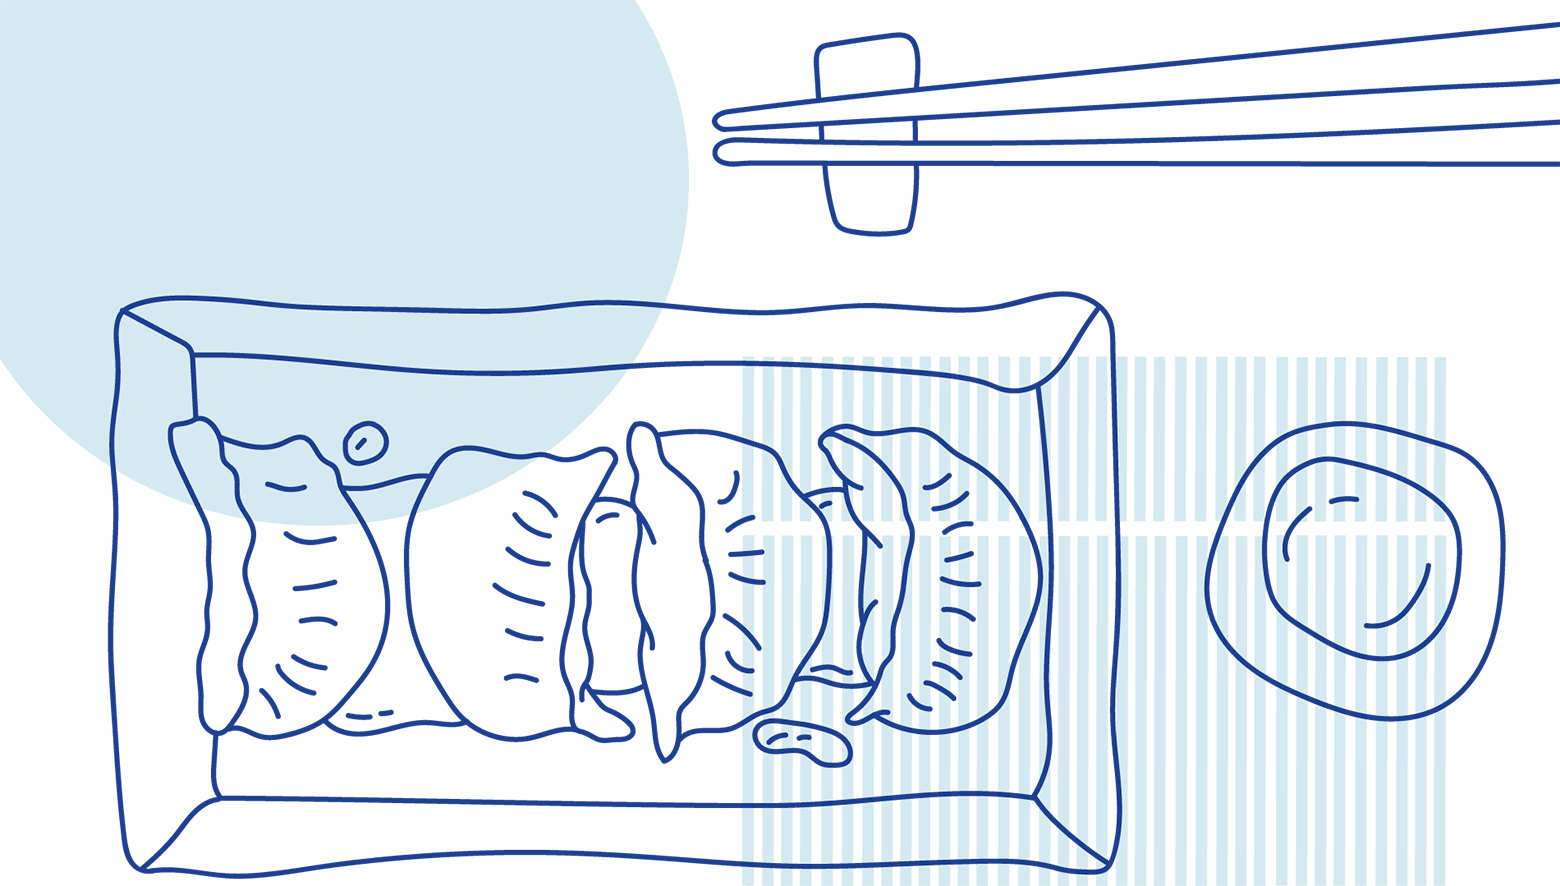
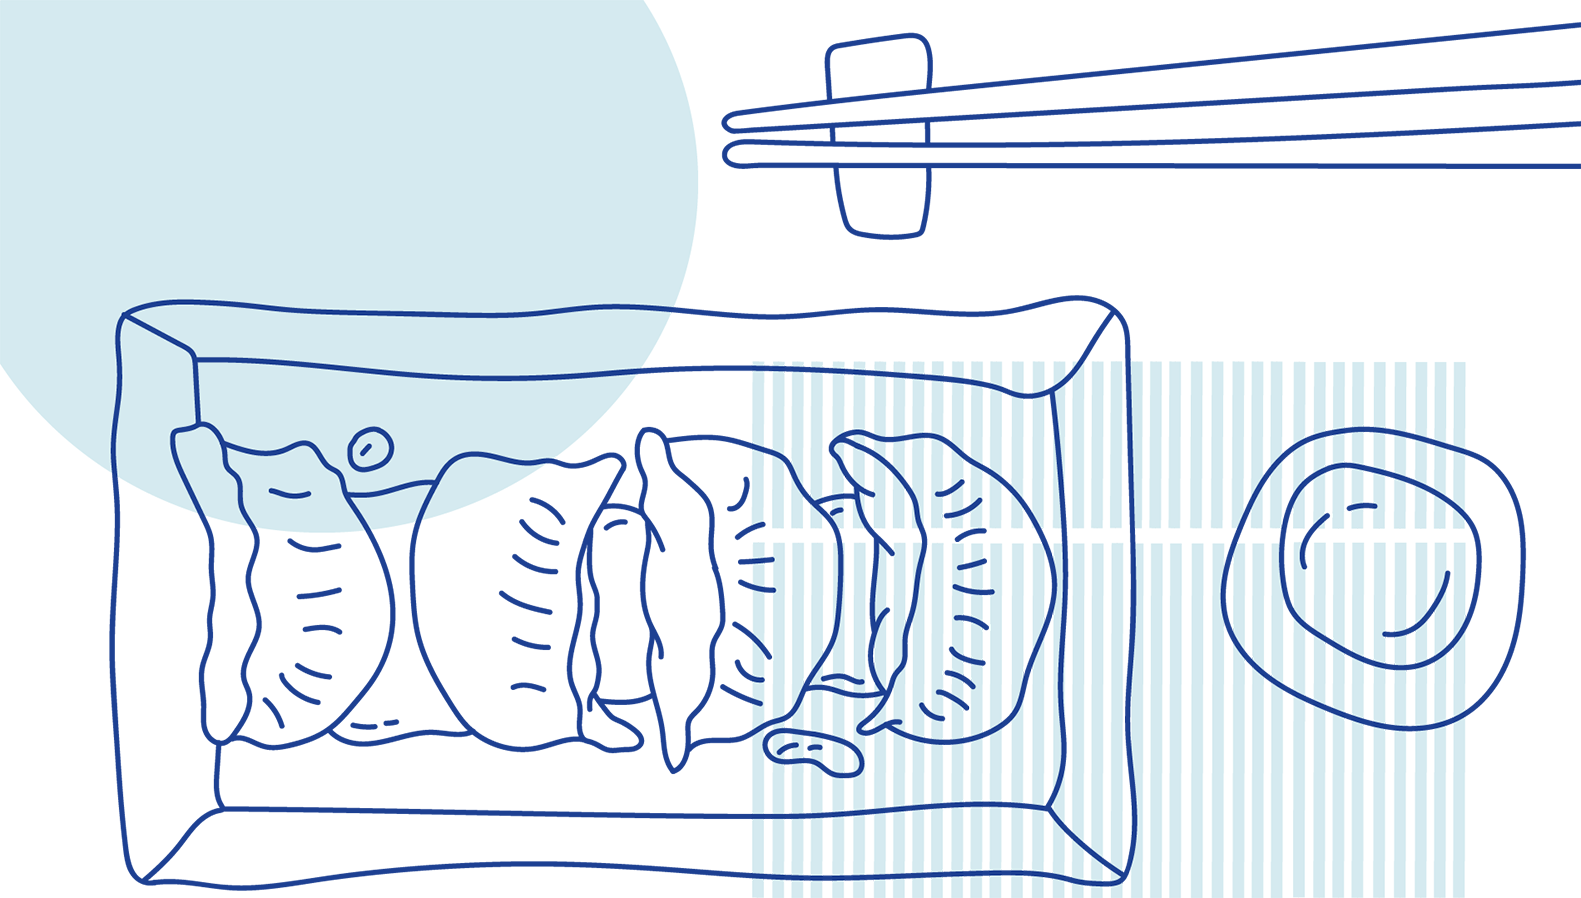
blandet

Changed region(s): [[0.3077, 0.9447, 0.3385, 0.9752]]

diff --git a/styles.css b/styles.css
@@ -1,7 +1,6 @@
 *{
     margin: 0;
     box-sizing: border-box;
-    overflow: hidden;
 }
 
 a{
@@ -196,8 +195,7 @@ footer ul li{
     }
 
     #forside img{
-        margin-right: 120%;
-        margin-left: 150px ;
+        margin-left: 20% ;
     }
 
     #forside p{
@@ -232,7 +230,7 @@ footer ul li{
         color: #D6E6EC;
         border-style: none;
         padding: 10px;
-        margin-left: 400px;
+        margin-left: 50%;
         margin-bottom: 20px;
     }
 
@@ -350,11 +348,13 @@ footer ul li{
     #firekort{
         display: flex;
         justify-content: space-evenly;
+        margin-bottom: 2%;
     }
 
     #firekort p{
         color: #76292D;
         font-size: 15px;
+        text-align: center;
     }
 
     .oplysninger input{

diff --git a/index.html b/index.html
@@ -46,6 +46,7 @@
     <main>
         <p id="prisboks">PRISER FRA 295,-</p> 
 
+        <img src="billeder/madillustration1.png" alt="illustration">
 
         <div id="forside">
             <section>
